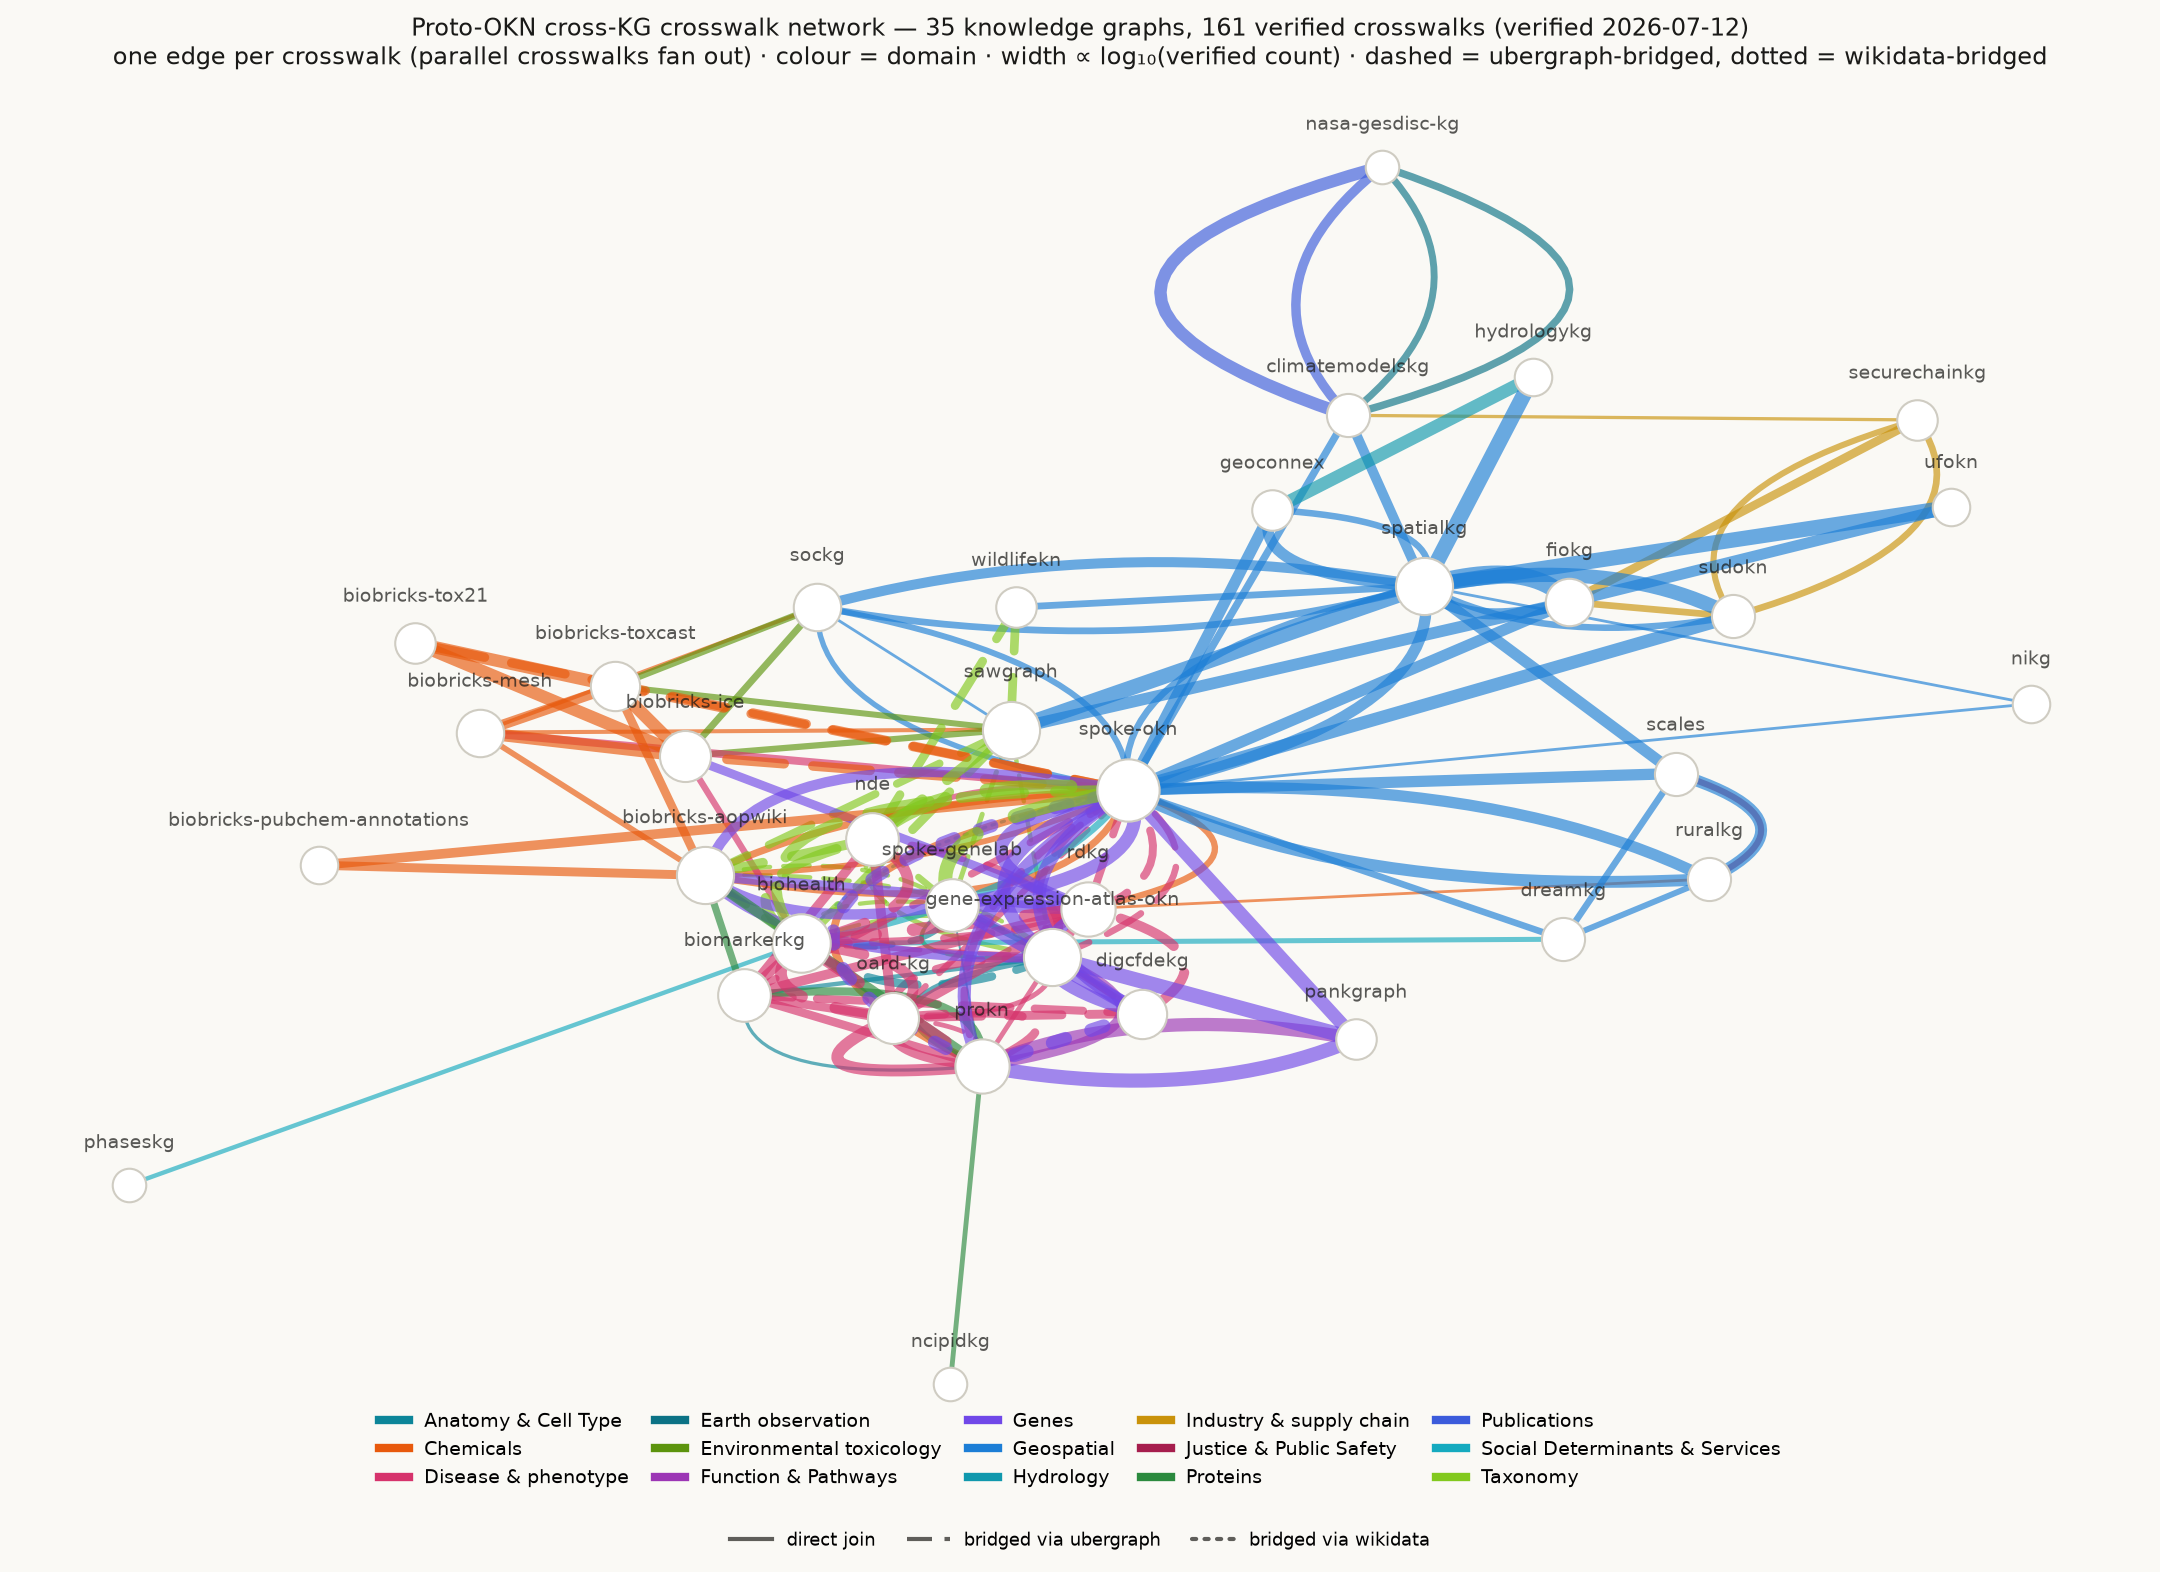
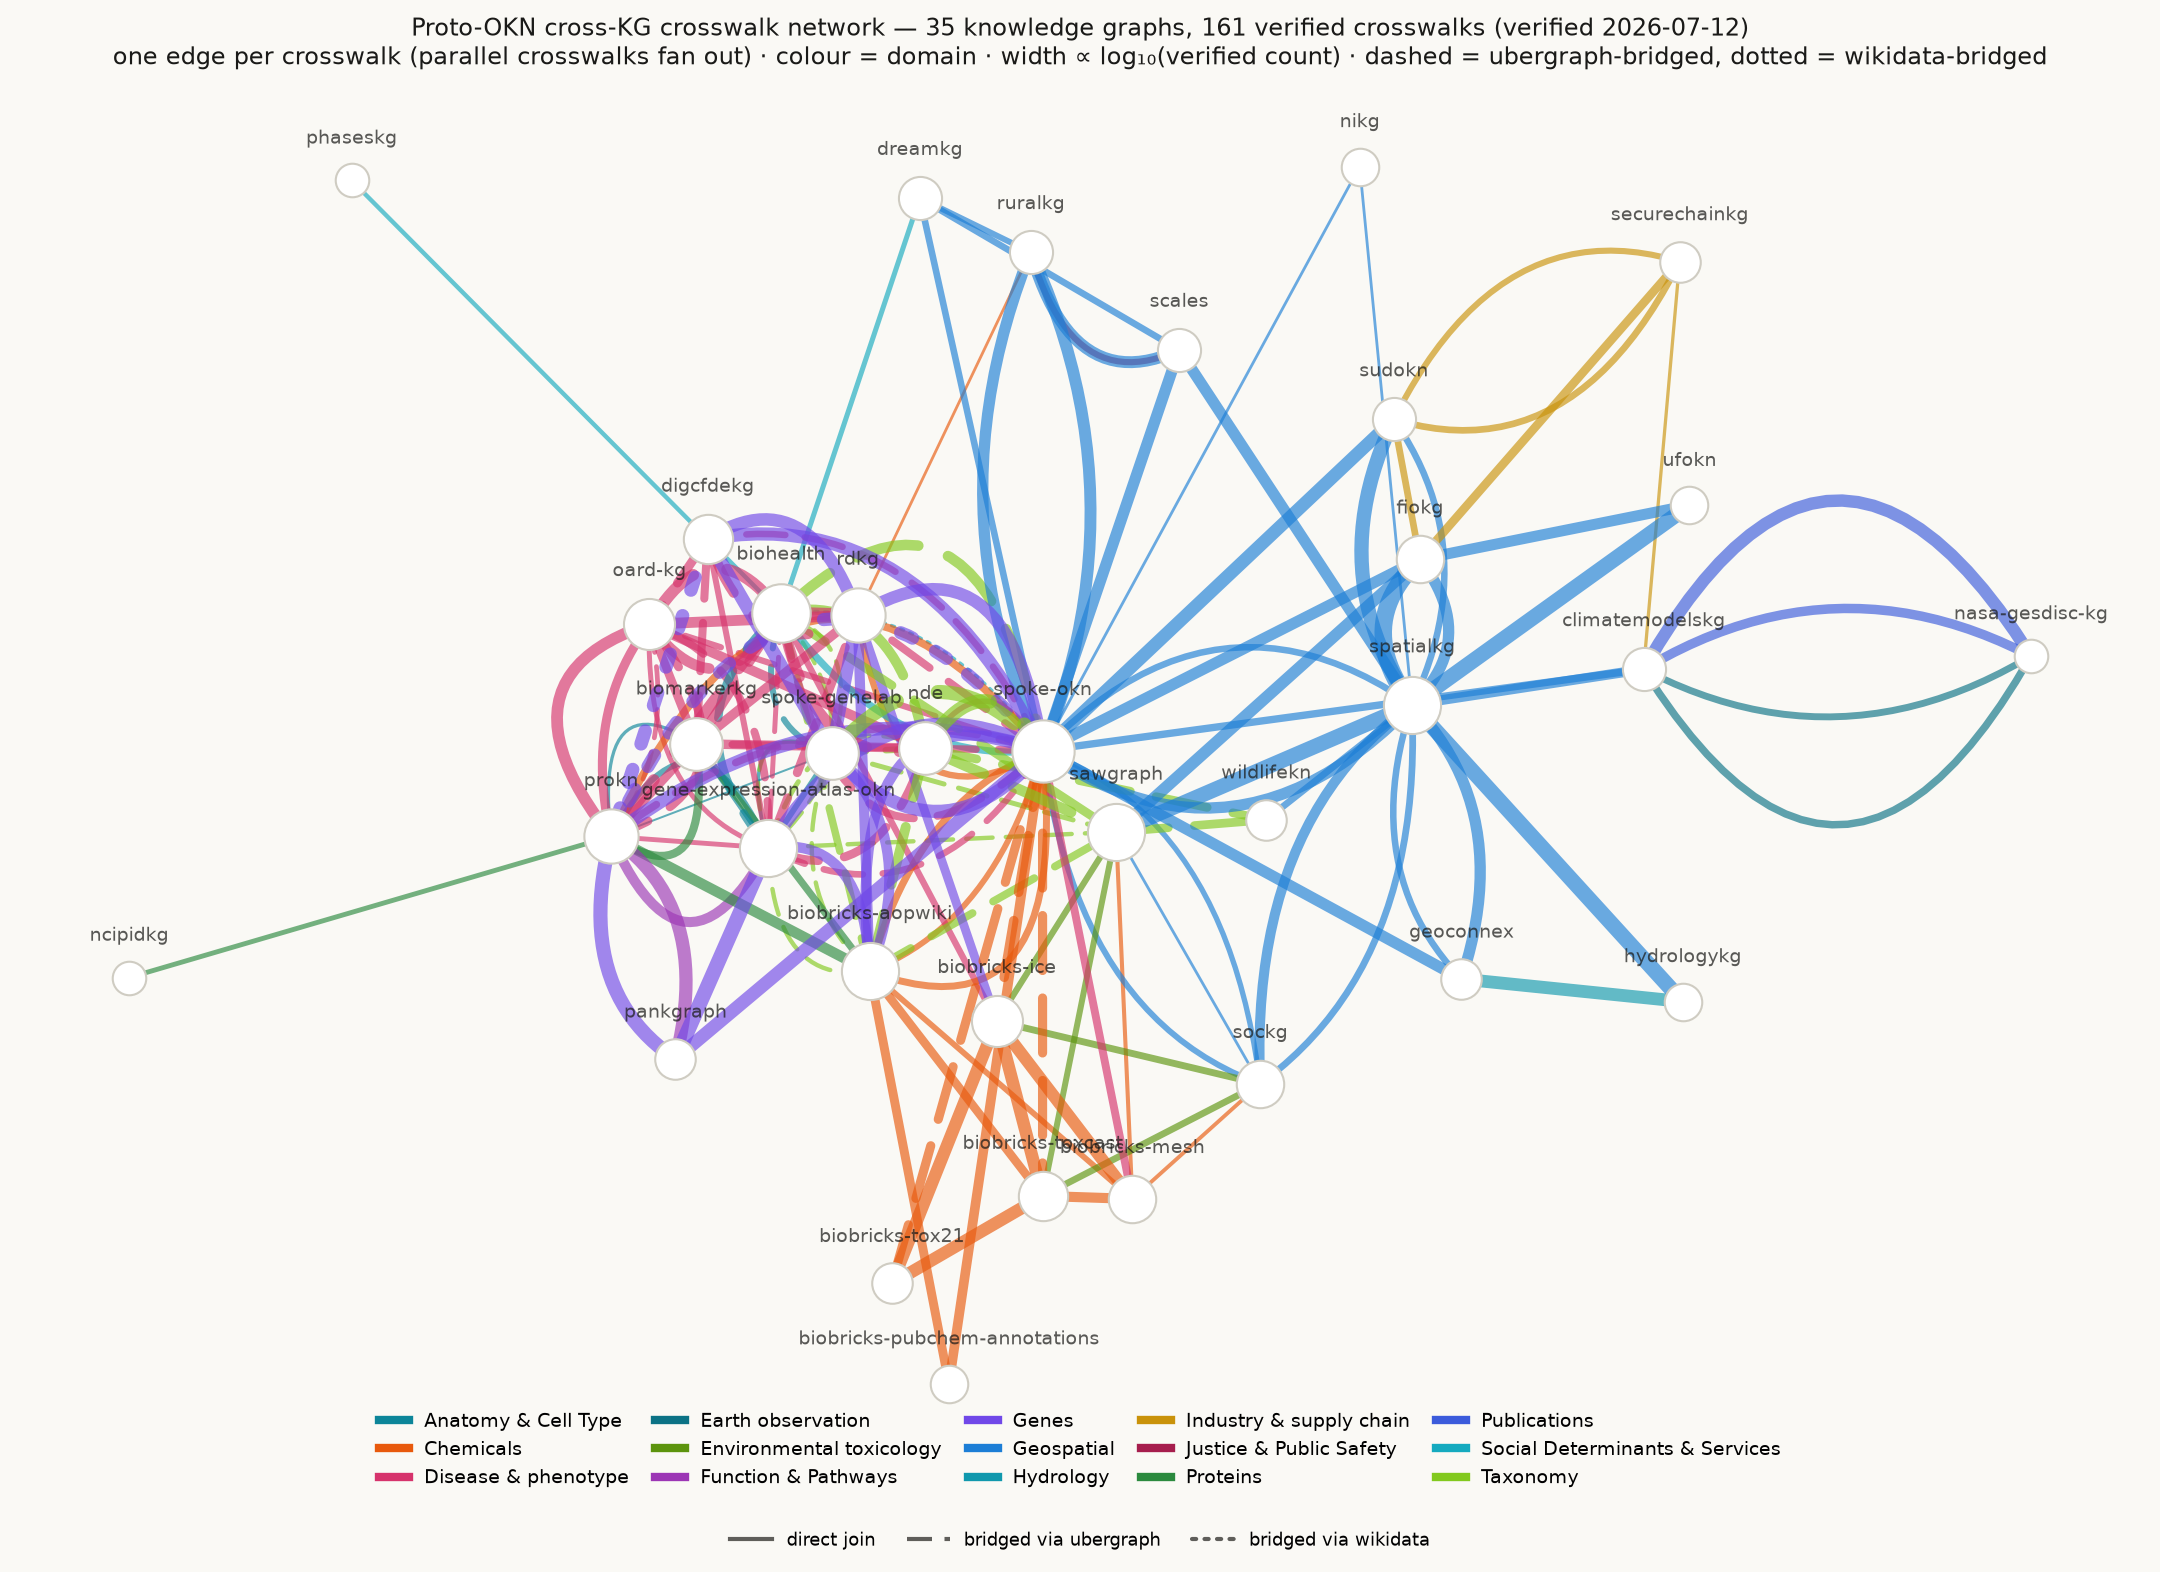
fix(figure): cluster the crosswalk network by domain instead of piling it up on the right
The nodes bunched against the right edge because every tick CLAMPED them into the
viewport (`d.x = max(30, min(W-30, d.x))`). The biomedical block — ~15 of the 35
KGs, carrying most of the 161 edges — is pushed outward by its own repulsion, hit
the wall, and got stacked flat against it with its labels running off the canvas.

Three changes, in the interactive HTML and mirrored in the static PNG so the two
figures agree:

1. DOMAIN CLUSTERING. Each domain gets an anchor on a ring, and a KG is pulled
   toward its dominant domain's anchor, blended toward the centre in proportion to
   how many domains it spans. Specialists (biobricks-tox21 = pure Chemicals) land
   in their cluster; connectors that span many domains (spoke-okn) end up central,
   which is what they are. No hub special-casing needed.

   NB a first attempt anchored each KG to the WEIGHTED CENTROID of all its domains.
   That fails: every multi-domain biomedical KG averages to nearly the same point
   and they collapse into one overlapping pile. Dominant-domain + centre-blend is
   what separates them.

2. FIT INSTEAD OF CLAMP. The clamp is gone; the simulation may use whatever space
   it needs and the RESULT is scaled to the viewport, measuring the bounding box
   over label extents so no name is clipped.

3. DETERMINISTIC SETTLE. The layout is now ticked to rest synchronously at load,
   then drawn and fitted once. d3 drives the simulation from requestAnimationFrame,
[…]

diff --git a/docs/crosswalks/crosswalk-network.html b/docs/crosswalks/crosswalk-network.html
@@ -259,6 +259,55 @@ const nbr={};nodeSet.forEach(n=>nbr[n]=new Set());
 links.forEach(l=>{nbr[l.source].add(l.target);nbr[l.target].add(l.source);});
 const deg={};nodeSet.forEach(n=>deg[n]=nbr[n].size);
 const nodes=[...nodeSet].map(id=>({id,bridge:BRIDGES.has(id),deg:deg[id]}));
+
+// ---- Domain clustering -------------------------------------------------------
+// A plain force layout collapses this graph into one hairball: ~15 of the 35 KGs
+// are biomedical and carry most of the 161 edges, so they clump, drift outward and
+// pile up against the viewport edge. Instead, give every DOMAIN an anchor point on
+// a ring, and pull each KG toward the WEIGHTED CENTROID of the domains it actually
+// joins on (weighted by how many crosswalks it has in each).
+//
+// This needs no special-casing for hubs, which is the point: a single-domain KG
+// (e.g. biobricks-tox21, all Chemicals) is pulled hard to one anchor and lands in
+// that cluster, while a KG spanning many domains (spoke-okn: chemicals, disease,
+// genes, geospatial…) has its anchors average out to near the centre — so the
+// connectors stay central and the specialists fan out around them, which is what
+// the topology actually is.
+const domCodes=Object.keys(DOM);
+const domCount={};nodes.forEach(n=>domCount[n.id]={});
+links.forEach(l=>{
+  domCount[l.source][l.dom]=(domCount[l.source][l.dom]||0)+1;
+  domCount[l.target][l.dom]=(domCount[l.target][l.dom]||0)+1;
+});
+// Domain anchors on a ring. Ordered so related domains sit adjacent, keeping the
+// biomedical block contiguous rather than scattered around the circle.
+const DOM_ORDER=["C","E","T","W","B","S","H","I","J","L","A","D","G","F","P"]
+  .filter(k=>domCodes.includes(k)).concat(domCodes.filter(k=>!"CETWBSHIJLADGFP".includes(k)));
+const anchor={};
+DOM_ORDER.forEach((k,i)=>{
+  const a=(i/DOM_ORDER.length)*2*Math.PI-Math.PI/2;
+  anchor[k]=[500+430*Math.cos(a),360+300*Math.sin(a)];
+});
+const CX=500,CY=360;
+nodes.forEach(n=>{
+  const counts=domCount[n.id],ks=Object.keys(counts);
+  // Dominant domain = where most of this KG's crosswalks live (ties broken by the
+  // ring order, so the choice is deterministic across reloads).
+  const dom=ks.sort((a,b)=>(counts[b]-counts[a])||(DOM_ORDER.indexOf(a)-DOM_ORDER.indexOf(b)))[0];
+  n.spread=ks.length;
+  // Blend the KG's own domain anchor toward the CENTRE in proportion to how many
+  // domains it spans. A specialist (spread 1: biobricks-tox21 = pure Chemicals)
+  // sits squarely in its cluster; a connector spanning 5+ domains (spoke-okn) is
+  // pulled to the middle, which is where it belongs — it is the thing that ties the
+  // clusters together. NB: do NOT use the weighted centroid of all its domains, as
+  // a first attempt did: every multi-domain biomedical KG then averages to nearly
+  // the SAME point and they collapse into one overlapping pile.
+  const t=Math.min(1,(n.spread-1)/4);
+  n.ax=anchor[dom][0]*(1-t)+CX*t;
+  n.ay=anchor[dom][1]*(1-t)+CY*t;
+  n.dom=dom;
+  n.anchorK=0.10+0.45*(1-t);   // specialists held firmly, hubs held loosely
+});
 const maxLog=Math.log10(681045);
 const lw=w=>0.8+6.2*(Math.log10(Math.max(w,1)))/maxLog;
 const nr=n=>n.bridge?17:Math.min(13,5+Math.sqrt(n.deg)*2);
@@ -328,16 +377,23 @@ function restore(){
   node.attr("opacity",1);label.attr("opacity",n=>n.bridge?1:0.62);
 }
 
+// Collision radius accounts for the LABEL, not just the node: the long names
+// (biobricks-pubchem-annotations, gene-expression-atlas-okn) are what actually
+// collide, so reserve horizontal room proportional to the text width.
+const labelR=d=>nr(d)+16+Math.min(40,d.id.length*1.5);
+
 const sim=d3.forceSimulation(nodes)
-  .force("link",d3.forceLink(simLinks).id(d=>d.id).distance(110).strength(0.085))
-  .force("charge",d3.forceManyBody().strength(-940))
-  .force("x",d3.forceX(W/2).strength(0.03))
-  .force("y",d3.forceY(H/2).strength(0.14))
-  .force("collide",d3.forceCollide().radius(d=>nr(d)+23))
+  .force("link",d3.forceLink(simLinks).id(d=>d.id).distance(95).strength(0.05))
+  .force("charge",d3.forceManyBody().strength(-900))
+  // Pull each KG toward its domain anchor (see "Domain clustering"). These replace
+  // the old centre-seeking x/y forces, which fought the link forces and let the
+  // dense biomedical block slide into the wall.
+  .force("x",d3.forceX(d=>d.ax).strength(d=>d.anchorK))
+  .force("y",d3.forceY(d=>d.ay).strength(d=>d.anchorK))
+  .force("collide",d3.forceCollide().radius(labelR).strength(0.9))
   .on("tick",ticked);
 
 function ticked(){
-  nodes.forEach(d=>{d.x=Math.max(30,Math.min(W-30,d.x));d.y=Math.max(24,Math.min(H-24,d.y));});
   link.attr("d",d=>{const sx=d.source.x,sy=d.source.y,tx=d.target.x,ty=d.target.y;if(!d.curv)return "M"+sx+","+sy+"L"+tx+","+ty;const dx=tx-sx,dy=ty-sy,dl=Math.hypot(dx,dy)||1,off=d.curv*(16+dl*0.10)*Math.min(3,d.par/2),mx=(sx+tx)/2,my=(sy+ty)/2,ux=-dy/dl,uy=dx/dl;return "M"+sx+","+sy+"Q"+(mx+ux*off)+","+(my+uy*off)+" "+tx+","+ty;});
   node.attr("cx",d=>d.x).attr("cy",d=>d.y);
   label.attr("x",d=>d.x).attr("y",d=>d.y-nr(d)-4);
@@ -349,7 +405,44 @@ node.call(d3.drag()
   .on("end",(ev,d)=>{if(!ev.active)sim.alphaTarget(0);}))
   .on("dblclick",(ev,d)=>{d.fx=null;d.fy=null;sim.alpha(0.3).restart();});
 
-svg.call(d3.zoom().scaleExtent([0.35,4]).on("zoom",ev=>g.attr("transform",ev.transform)));
+const zoom=d3.zoom().scaleExtent([0.35,4]).on("zoom",ev=>g.attr("transform",ev.transform));
+svg.call(zoom);
+
+// Fit the settled graph to the viewport instead of CLAMPING nodes into it.
+// The old layout forced every node inside [30, W-30] on each tick, so the dense
+// biomedical cluster — pushed outward by its own repulsion — was squashed flat
+// against the right edge with its labels running off the canvas. Now the
+// simulation is free to use whatever space it needs and we scale the RESULT to
+// fit, measuring the bounding box over label extents so no name is ever clipped.
+function fit(animate){
+  let x0=Infinity,y0=Infinity,x1=-Infinity,y1=-Infinity;
+  nodes.forEach(d=>{
+    const half=d.id.length*(d.bridge?4.2:3.5);  // approx half label width
+    x0=Math.min(x0,d.x-Math.max(nr(d),half));   x1=Math.max(x1,d.x+Math.max(nr(d),half));
+    y0=Math.min(y0,d.y-nr(d)-16);               y1=Math.max(y1,d.y+nr(d));
+  });
+  const bw=x1-x0,bh=y1-y0;
+  if(!(bw>0&&bh>0))return;
+  const pad=18,k=Math.min((W-2*pad)/bw,(H-2*pad)/bh,1.6);
+  const tx=(W-k*(x0+x1))/2,ty=(H-k*(y0+y1))/2;
+  const t=d3.zoomIdentity.translate(tx,ty).scale(k);
+  (animate?svg.transition().duration(420):svg).call(zoom.transform,t);
+}
+
+// Settle the layout SYNCHRONOUSLY, then draw and fit once.
+//
+// d3 drives the simulation from requestAnimationFrame, which the browser throttles
+// — or freezes outright — whenever the tab isn't in the foreground. So an animated
+// settle makes the graph's final geometry, and therefore the fit, depend on whether
+// anyone happened to be looking at it: the layout could be left half-cooked and
+// unfitted, with nodes off-canvas. Ticking to rest up front makes the picture
+// deterministic (identical on every load), kills the multi-second wobble, and
+// guarantees the fit runs against FINAL positions. The simulation stays live
+// afterwards, so dragging a node still re-heats and re-settles it interactively.
+sim.stop();
+for(let i=0;i<420;i++)sim.tick();
+ticked();
+fit(false);
 
 const leg=d3.select("#legend");
 Object.keys(DOM).forEach(k=>{
@@ -359,7 +452,12 @@ Object.keys(DOM).forEach(k=>{
   chip.on("click",function(){if(active.has(k)){active.delete(k);this.classList.add("off");}else{active.add(k);this.classList.remove("off");}restore();});
 });
 document.querySelectorAll(".lstyle").forEach(el=>{el.onclick=function(){const b=this.getAttribute("data-b");if(bactive.has(b)){bactive.delete(b);this.classList.add("off");}else{bactive.add(b);this.classList.remove("off");}restore();};});
-document.getElementById("reset").onclick=()=>{nodes.forEach(d=>{d.fx=null;d.fy=null;});g.attr("transform",null);sim.alpha(0.7).restart();};
+document.getElementById("reset").onclick=()=>{
+  nodes.forEach(d=>{d.fx=null;d.fy=null;});
+  sim.alpha(1).stop();
+  for(let i=0;i<420;i++)sim.tick();
+  ticked();fit(true);
+};
 })();
 </script>
 </body>

diff --git a/scripts/render_crosswalk_network_png.py b/scripts/render_crosswalk_network_png.py
@@ -112,7 +112,40 @@ G = nx.Graph()
 G.add_nodes_from(sorted(nodeset))
 for pr, grp in sorted(pg.items()):
     G.add_edge(pr[0], pr[1], weight=0.3 + lw(max(L[3] for L in grp)) * 0.12)
-pos = nx.spring_layout(G, k=0.62, iterations=600, weight="weight", seed=11)
+
+# Domain clustering — mirrors the interactive HTML (see its "Domain clustering"
+# comment). A plain spring layout collapses this graph into one hairball: ~15 of the
+# 35 KGs are biomedical and carry most of the edges, so they clump. Instead each
+# domain gets an anchor on a ring, and a KG starts at its dominant domain's anchor,
+# blended toward the centre in proportion to how many domains it spans — so
+# specialists land in their cluster and multi-domain connectors (spoke-okn) sit
+# centrally. spring_layout has no anchor force, so the anchors are applied as the
+# INITIAL positions and the layout is relaxed from there, which preserves the
+# clustering while letting the edges do the fine placement.
+DOM_RING = ["C", "E", "T", "W", "B", "S", "H", "I", "J", "L", "A", "D", "G", "F", "P"]
+ring = [k for k in DOM_RING if k in DOM] + [k for k in DOM if k not in DOM_RING]
+anchor = {}
+for i, k in enumerate(ring):
+    a = (i / len(ring)) * 2 * math.pi - math.pi / 2
+    anchor[k] = np.array([math.cos(a), math.sin(a) * 0.72])
+
+# Count from `links` (already expanded to real node pairs), not from R: a bridged
+# R row names its hub (ubergraph/wikidata), which is not drawn as a node.
+dom_count: dict[str, dict[str, int]] = {n: {} for n in nodeset}
+for L in links:
+    for kg in (L[0], L[1]):
+        dom_count[kg][L[2]] = dom_count[kg].get(L[2], 0) + 1
+
+init = {}
+for n in sorted(nodeset):
+    counts = dom_count[n]
+    dom = sorted(counts, key=lambda k: (-counts[k], ring.index(k)))[0]
+    t = min(1.0, (len(counts) - 1) / 4)
+    init[n] = anchor[dom] * (1 - t)  # centre is the origin, so blending is a scale
+
+pos = nx.spring_layout(
+    G, k=0.62, iterations=600, weight="weight", seed=11, pos=init, center=(0, 0)
+)
 
 
 def bez(s, c, t, n=26):
